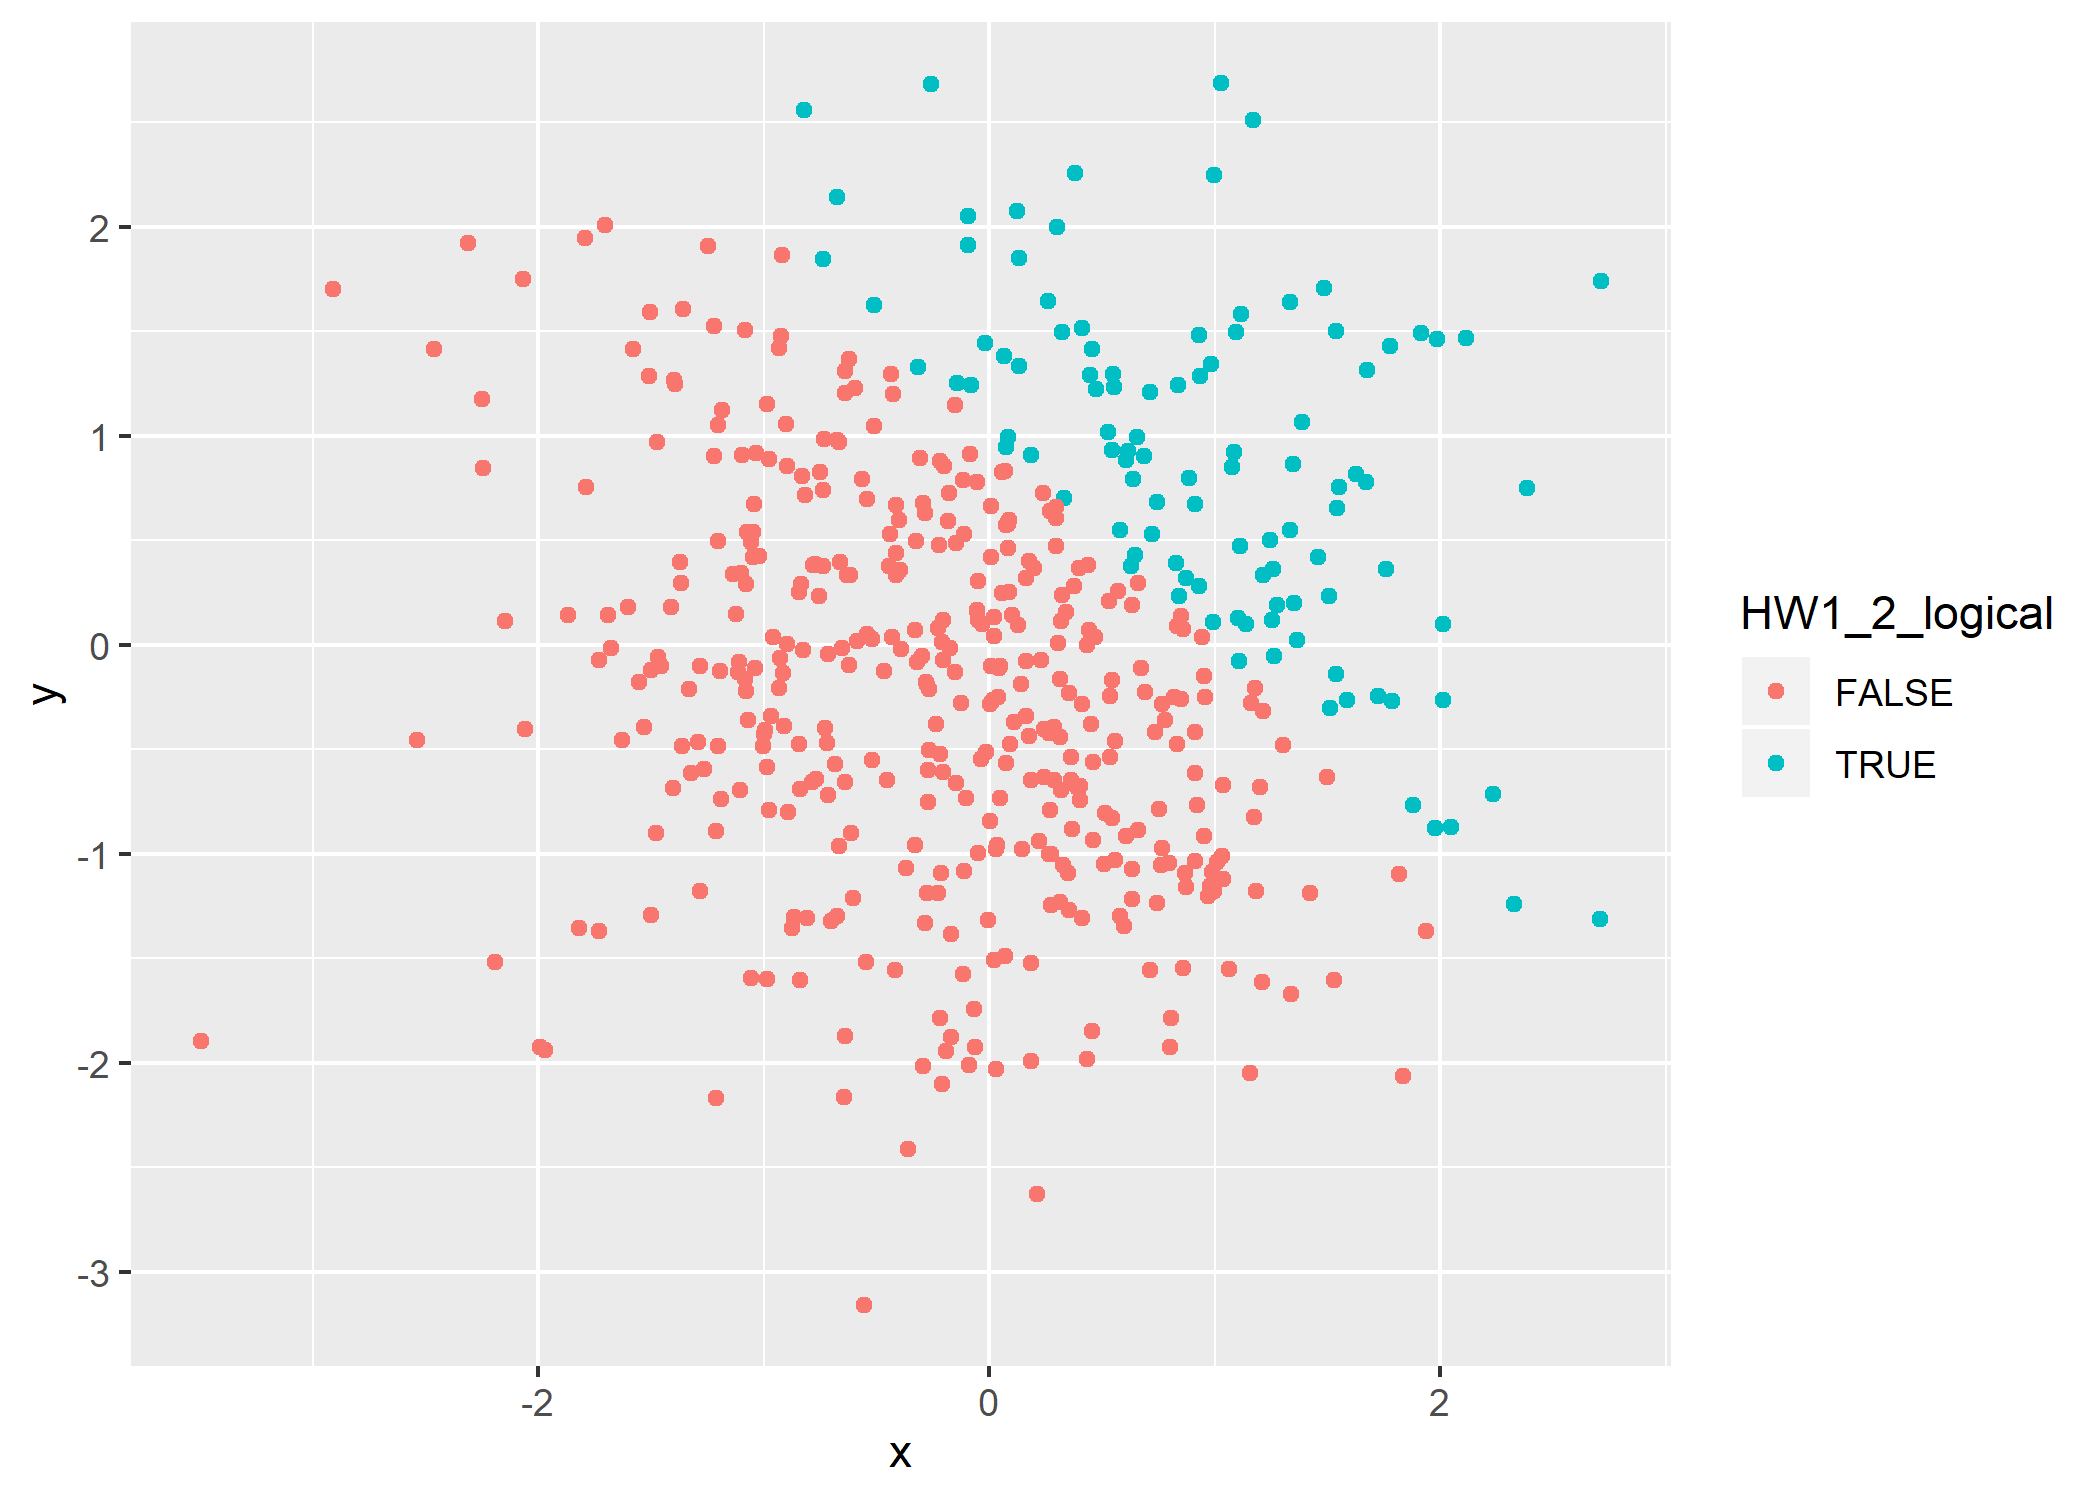
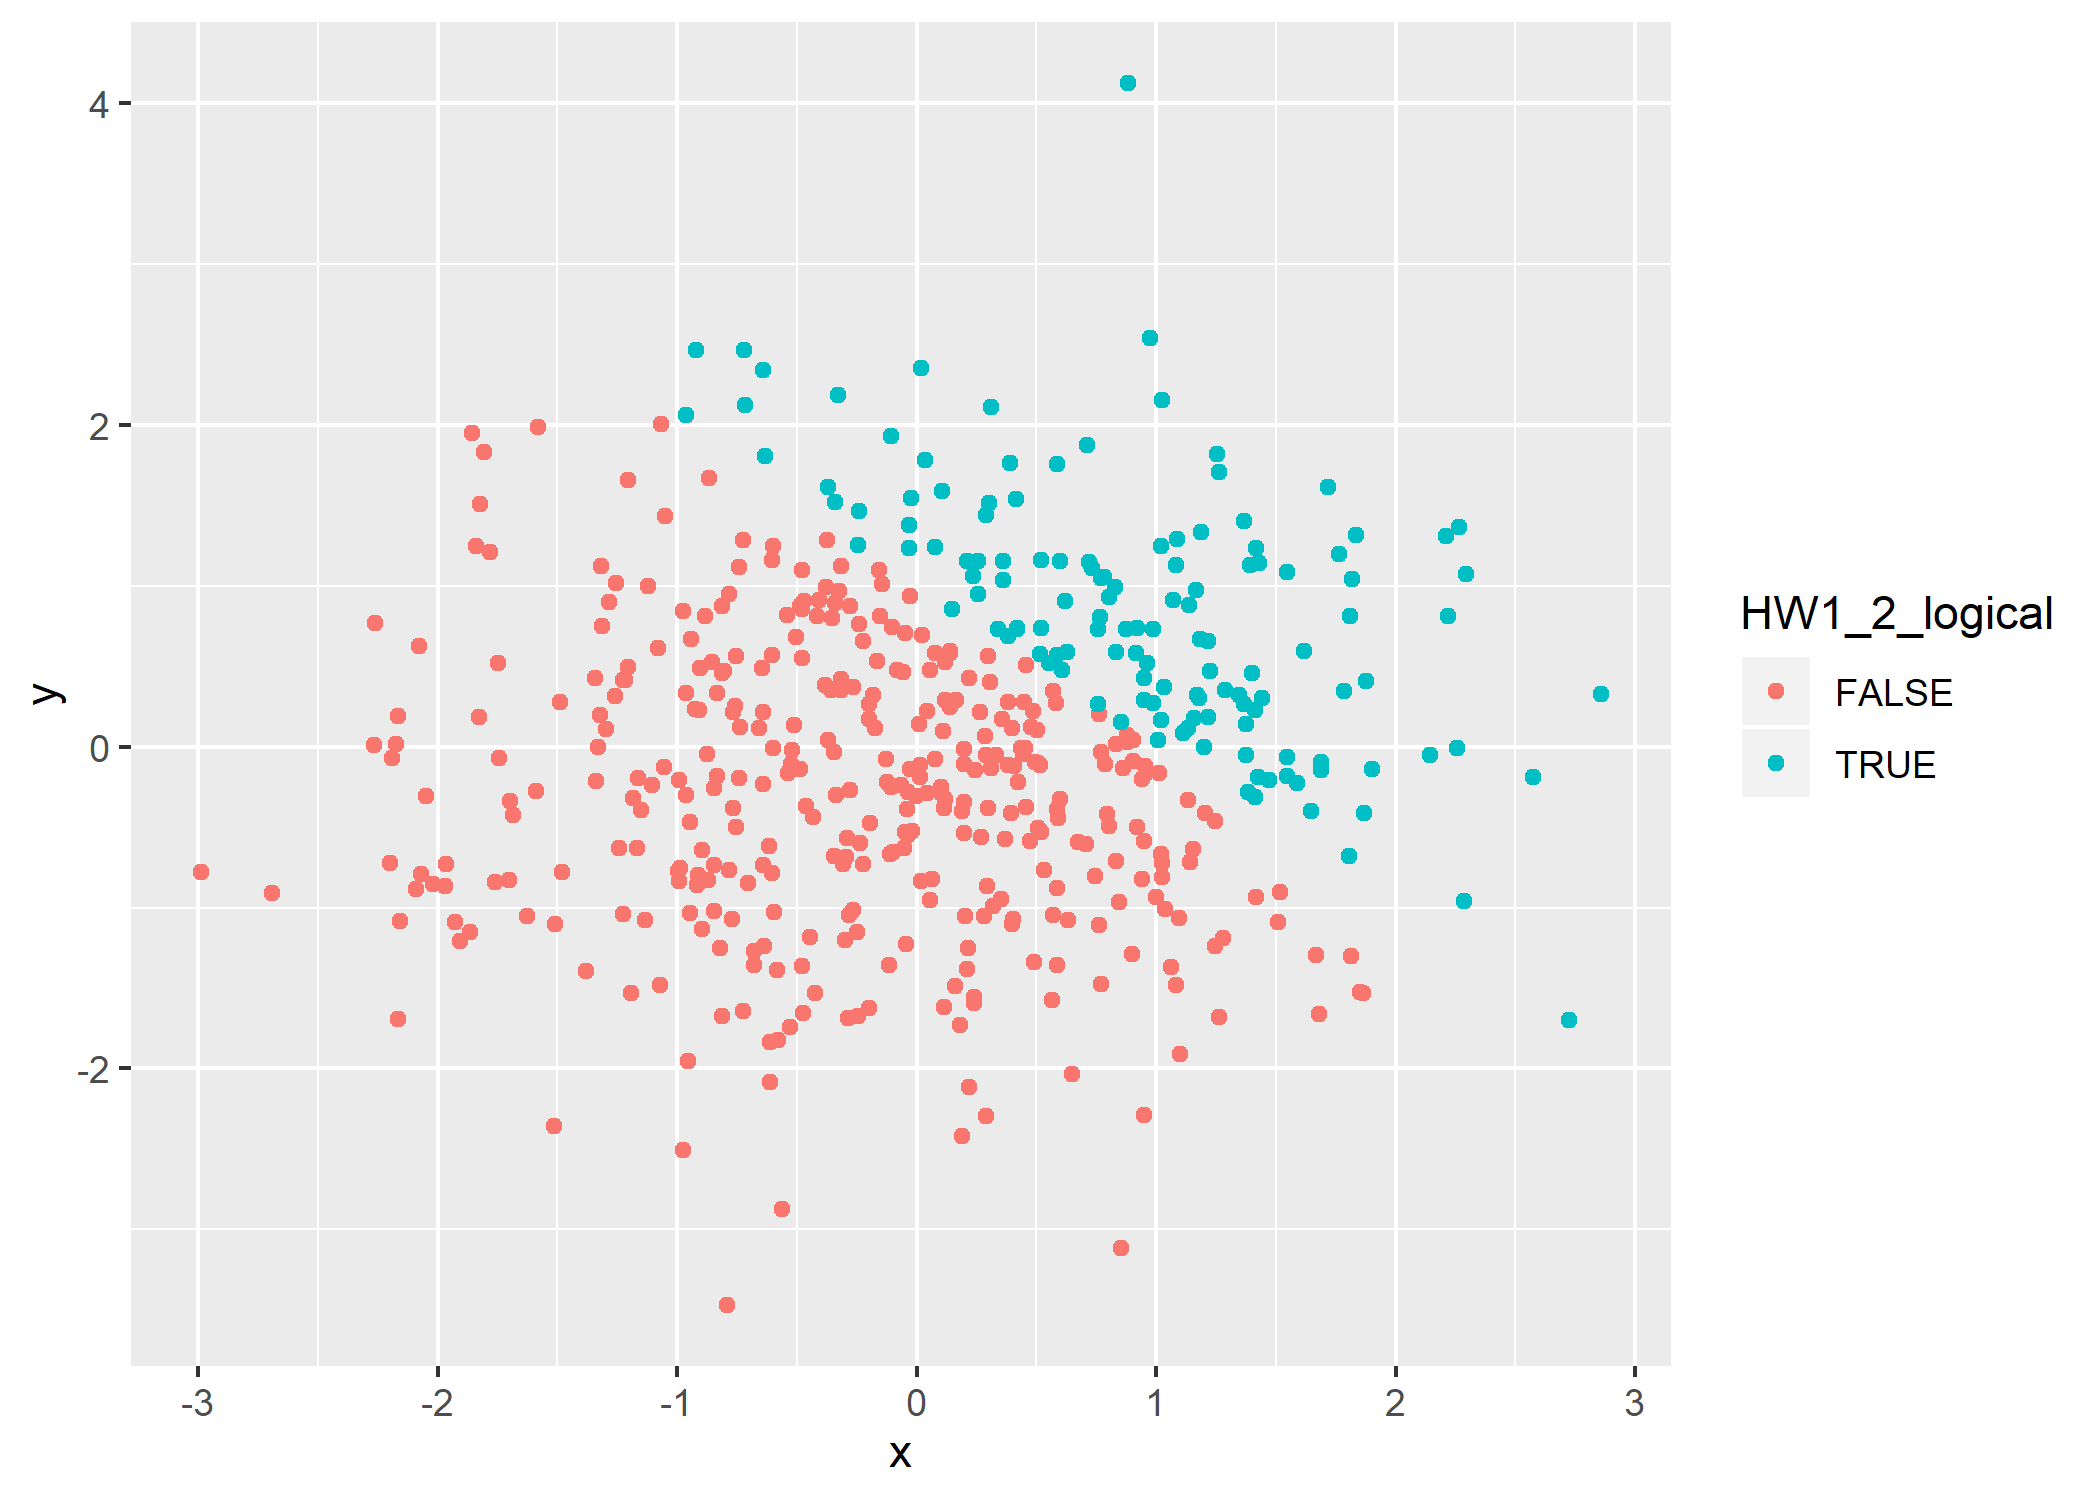
Removed a heading from problem 1, simplified some variables

diff --git a/p8105_hw1_kpc2124.md b/p8105_hw1_kpc2124.md
@@ -22,9 +22,9 @@ HW1_1_df = tibble(
 
 ``` r
 mean(pull(HW1_1_df, HW1_1_samp))
-## [1] 0.09470216
+## [1] -0.5840163
 mean(pull(HW1_1_df, HW1_1_samp_pos))
-## [1] 0.625
+## [1] 0.375
 mean(pull(HW1_1_df, HW1_1_char))
 ## Warning in mean.default(pull(HW1_1_df, HW1_1_char)): argument is not
 ## numeric or logical: returning NA
@@ -56,15 +56,13 @@ The character vector was unable to return numeric values and instead
 returned NA. The factor vector returned numeric values although they
 corresponded to the levels rather than the vector itself.
 
-# Problem 1\_1
-
 **Creating a new code chunk to manipulate variables from the dataframe**
 
 ``` r
 HW1_1_samp_num = as.numeric(pull(HW1_1_df, HW1_1_samp_pos))
 HW1_1_samp_num * pull(HW1_1_df,HW1_1_samp)
-## [1] 0.000000000 0.000000000 0.005494444 1.235603075 1.126715195 0.935539399
-## [7] 1.271857653 0.000000000
+## [1] 0.7506088 0.8069372 0.0000000 0.7346191 0.0000000 0.0000000 0.0000000
+## [8] 0.0000000
 
 HW1_1_samp_factor = as.factor(pull(HW1_1_df,HW1_1_samp_pos))
 HW1_1_samp_factor * pull(HW1_1_df,HW1_1_samp)
@@ -74,8 +72,8 @@ HW1_1_samp_factor * pull(HW1_1_df,HW1_1_samp)
 
 HW1_1_samp_num2 = as.numeric(HW1_1_samp_factor)
 HW1_1_samp_num2 * pull(HW1_1_df,HW1_1_samp)
-## [1] -1.16317111 -1.32921787  0.01098889  2.47120615  2.25343039  1.87107880
-## [7]  2.54371531 -1.32520348
+## [1]  1.5012177  1.6138744 -2.0064706  1.4692381 -1.5459547 -0.9751685
+## [7] -1.8543873 -0.5823146
 ```
 
 # Problem 2
@@ -93,8 +91,8 @@ HW1_2_df = tibble(
 ```
 
 The size of the data set `HW1_2_df` is 2500. The mean of `x` is
--0.016155. The median of `x` is 0.0175187. The standard deviation of `x`
-is 0.9793135. The proportion of cases for which `x + y > 1` is 0.21.
+0.0450598. The median of `x` is 0.0766929. The standard deviation of `x`
+is 1.0190575. The proportion of cases for which `x + y > 1` is 0.268.
 
 **Scatterplots**
 
